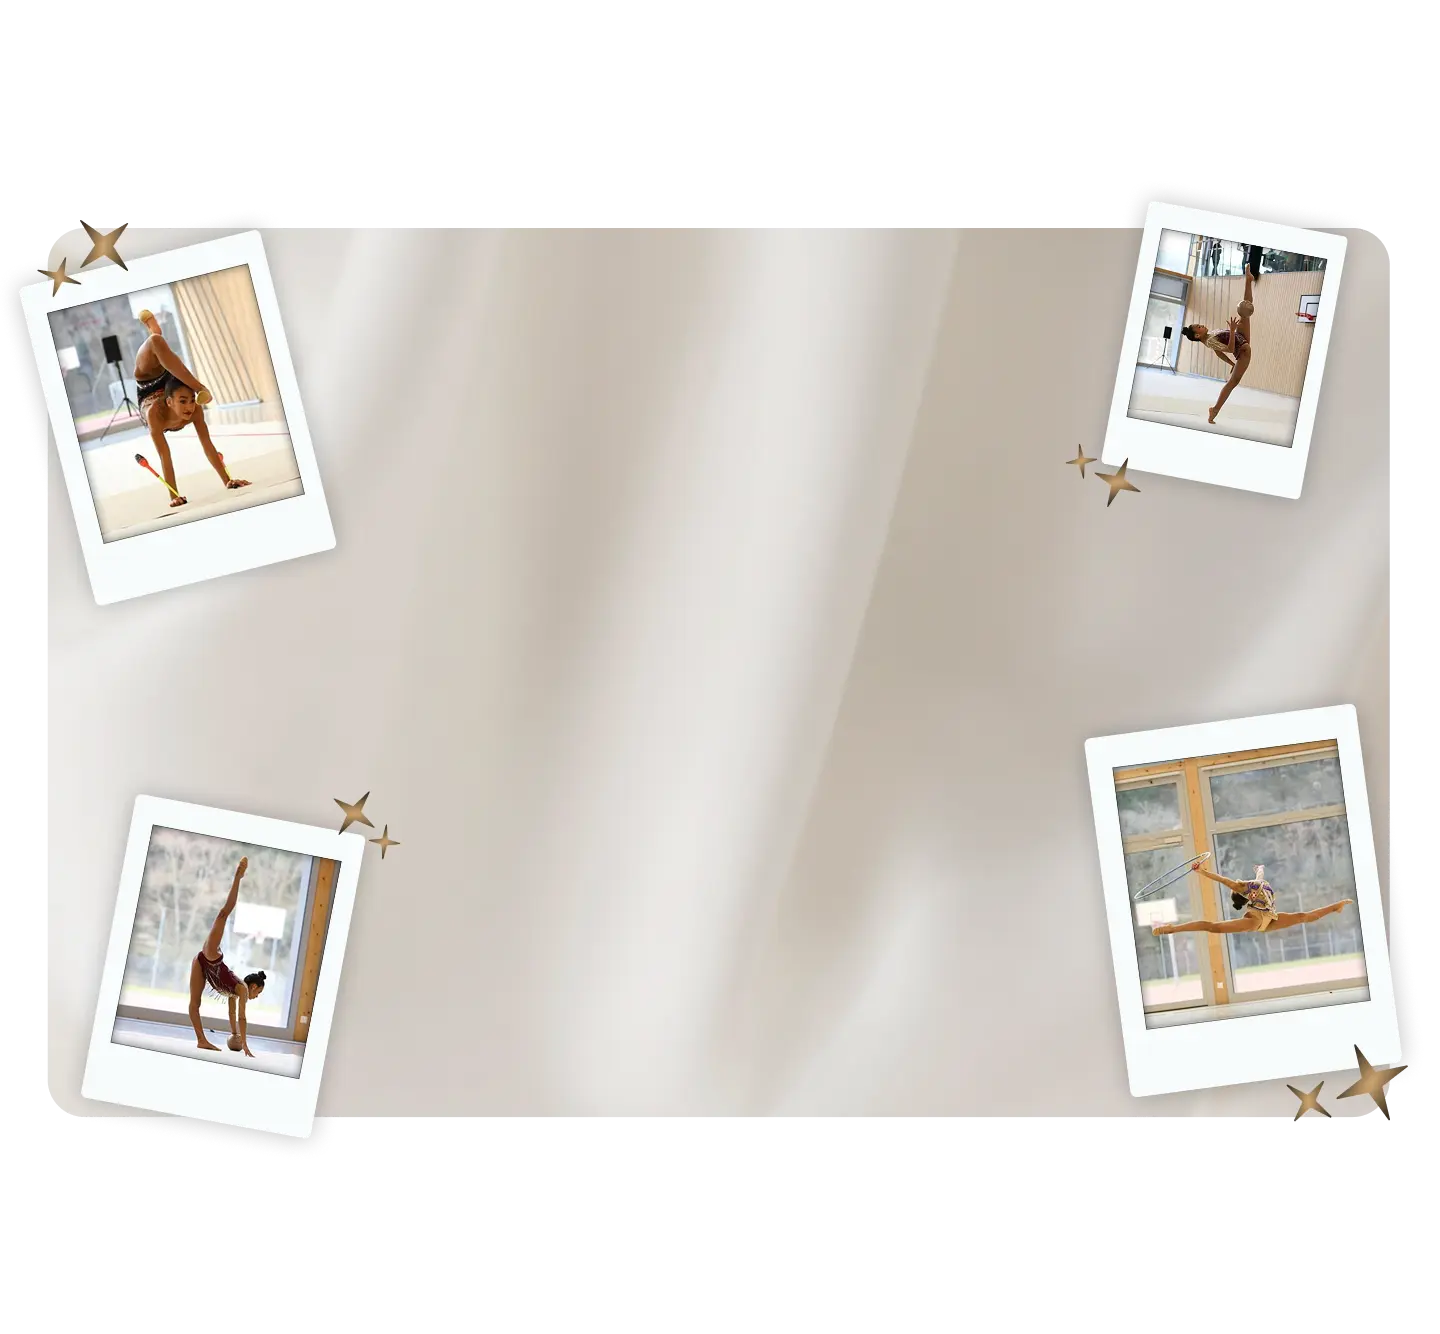
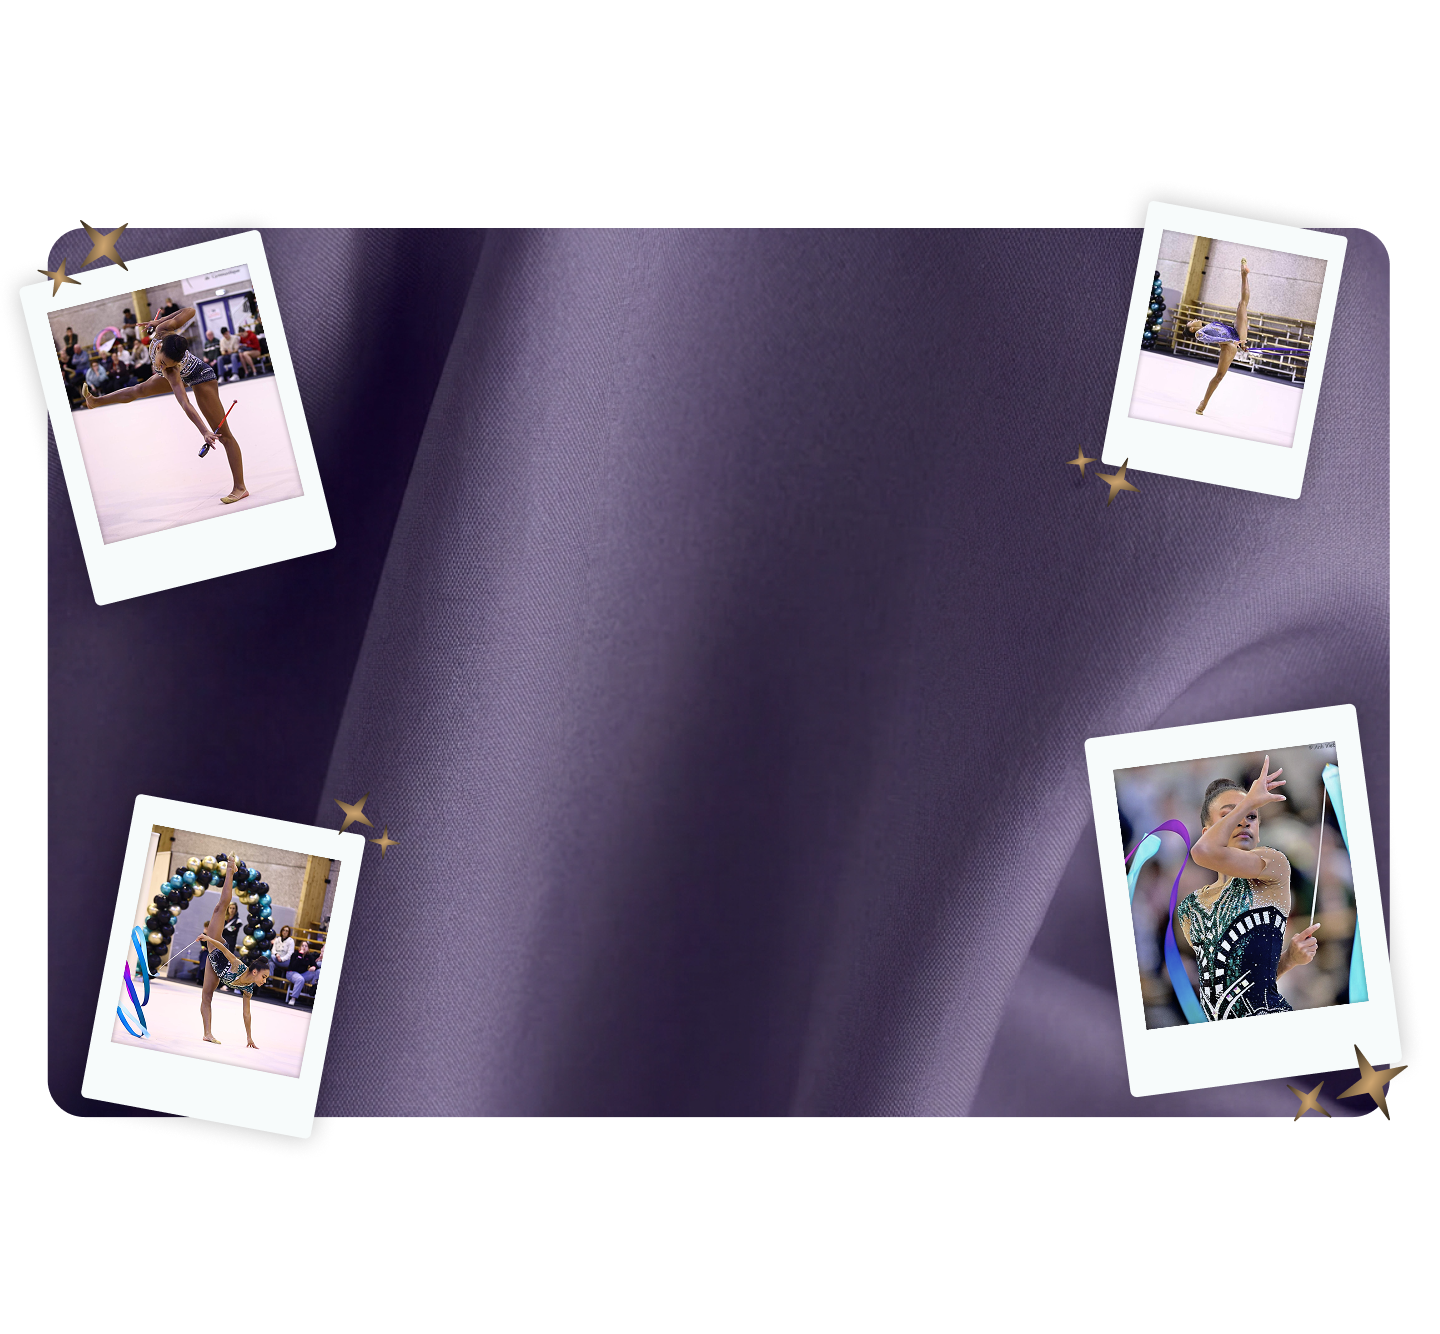
change of colors

diff --git a/index.html b/index.html
@@ -442,7 +442,7 @@
       <div class="section7 flex">
         <h2 class="young">Mes Essentiels</h2>
         <img
-          src="./Assets/SVG/essentiels_background.svg"
+          src="./Assets/WEBp/essentiels_background.webp"
           alt=""
           loading="lazy"
           fetchpriority="low"
@@ -480,12 +480,12 @@
               <div class="links_gauche sous_links flex">
                 <h3>Navigation</h3>
                 <ul class="flex">
-                  <a href="">Acceuil</a
-                  ><a href="">À propos</a
-                  ><a href="">Médias</a
-                  ><a href="">Sponsors</a
-                  ><a href="">Palmarès</a
-                  ><a href="">Essentiels</a>
+                  <a class="white_text" href="">Acceuil</a
+                  ><a class="white_text" href="">À propos</a
+                  ><a class="white_text" href="">Médias</a
+                  ><a class="white_text" href="">Sponsors</a
+                  ><a class="white_text" href="">Palmarès</a
+                  ><a class="white_text" href="">Essentiels</a>
                 </ul>
               </div>
               <div class="links_droite sous_links flex">
@@ -497,6 +497,7 @@
                       alt=""
                       loading="lazy"
                       fetchpriority="low"
+                      class="white_svg"
                   /></a>
                   <a href=""
                     ><img
@@ -504,6 +505,7 @@
                       alt=""
                       loading="lazy"
                       fetchpriority="low"
+                      class="white_svg"
                   /></a>
                 </ul>
               </div>
@@ -518,7 +520,7 @@
               alt="Signature manuscrite Charlène Pasche"
             />
 
-            <p class="bas_page">@Charlène Pasche 2026</p>
+            <p class="bas_page white_text">@Charlène Pasche 2026</p>
           </div>
 
           <div class="droite flex">
@@ -526,12 +528,12 @@
               <div class="links_gauche sous_links flex">
                 <h3>Navigation</h3>
                 <ul class="flex">
-                  <a href="">Acceuil</a
-                  ><a href="">À propos</a
-                  ><a href="">Médias</a
-                  ><a href="">Sponsors</a
-                  ><a href="">Palmarès</a
-                  ><a href="">Essentiels</a>
+                  <a class="white_text" href="">Acceuil</a
+                  ><a class="white_text" href="">À propos</a
+                  ><a class="white_text" href="">Médias</a
+                  ><a class="white_text" href="">Sponsors</a
+                  ><a class="white_text" href="">Palmarès</a
+                  ><a class="white_text" href="">Essentiels</a>
                 </ul>
               </div>
               <div class="links_droite sous_links flex">
@@ -546,6 +548,7 @@
                   /></a>
                   <a href=""
                     ><img
+                      id="youtube"
                       src="./Assets/SVG/youtube.svg"
                       alt=""
                       loading="lazy"
@@ -557,7 +560,7 @@
 
             <img
               class="desktop"
-              src="./Assets/WEBp/Signature_footer.webp"
+              src="./Assets/WEBp/Signature_footer.png"
               alt="Signature manuscrite Charlène Pasche"
               loading="lazy"
               fetchpriority="low"

diff --git a/Css/style.css b/Css/style.css
@@ -92,7 +92,7 @@ body {
 
 .landing img {
   position: relative;
-  top: -70px;
+  top: -42.5px;
 }
 
 /* ----------------------------------------------- */
@@ -139,6 +139,7 @@ body {
 .sect3_texte {
   position: relative;
   top: -800px;
+  color: #ffffff;
 }
 
 .section3 p {
@@ -302,8 +303,9 @@ body {
 
 /* ----------------------------------------------- */
 footer {
-  background-color: #c0bbb4;
+  background-color: #413653;
   width: 100vw;
+  color: #ffffff;
 }
 
 @media (max-width: 1440px) {
@@ -313,7 +315,7 @@ footer {
 }
 
 .footer {
-  background-color: #c0bbb4;
+  background-color: #413653;
   flex-direction: row;
   justify-content: space-between;
   width: 1340px;
@@ -406,6 +408,10 @@ footer {
   color: var(--noir60);
 }
 
+.white_text {
+  color: rgba(255, 255, 255, 0.5) !important;
+}
+
 .footer .droite .links .sous_links .reseaux {
   align-items: flex-start;
   gap: 10px;
@@ -415,4 +421,9 @@ footer {
 .footer .droite .links .sous_links .reseaux a:nth-child(2) {
   position: relative;
   top: -6px;
+}
+
+#youtube {
+  position: relative;
+  top: 7px;
 }
